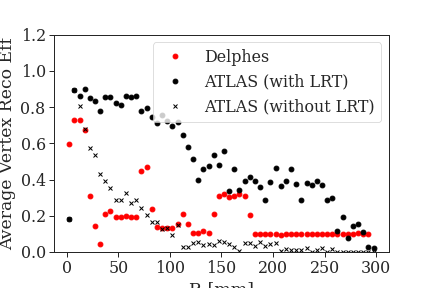
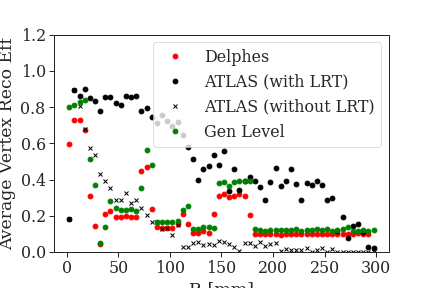
Updated Delphes check with gen level results

diff --git a/workdir/data/RDVplot.py b/workdir/data/RDVplot.py
@@ -1,0 +1,40 @@
+from matplotlib import pyplot as plt
+from matplotlib.backends.backend_pdf import PdfPages
+pp   = PdfPages('RDVhist.pdf')
+tmp1 = plt.figure(1)
+tmp1.set_size_inches(8.00,6.00)
+plot = open('RDVhist-0.dat')
+plot = [line.split() for line in plot]
+valx = [float(x[0]) for x in plot]
+valy = [float(x[1]) for x in plot]
+vale = [float(x[2]) for x in plot]
+plt.hist( valx, vale, weights = valy, histtype='step', label=r'RDV')
+plt.xlim( 0.000e+00, 3.000e+02)
+plt.ylim( 0.000e+00, 9.292e+02)
+plt.ticklabel_format(axis='y', style='sci', scilimits=(-2,3))
+plt.legend(frameon=False,loc='best')
+plt.title(r'')
+plt.xlabel(r'')
+plt.ylabel(r'')
+pp.savefig(tmp1,bbox_inches='tight')
+plt.clf()
+pp.close()
+pp   = PdfPages('RDVeffhist.pdf')
+tmp1 = plt.figure(1)
+tmp1.set_size_inches(8.00,6.00)
+plot = open('RDVeffhist-0.dat')
+plot = [line.split() for line in plot]
+valx = [float(x[0]) for x in plot]
+valy = [float(x[1]) for x in plot]
+vale = [float(x[2]) for x in plot]
+plt.hist( valx, vale, weights = valy, histtype='step', label=r'RDVeff')
+plt.xlim( 0.000e+00, 3.000e+02)
+plt.ylim( 0.000e+00, 7.546e+02)
+plt.ticklabel_format(axis='y', style='sci', scilimits=(-2,3))
+plt.legend(frameon=False,loc='best')
+plt.title(r'')
+plt.xlabel(r'')
+plt.ylabel(r'')
+pp.savefig(tmp1,bbox_inches='tight')
+plt.clf()
+pp.close()
